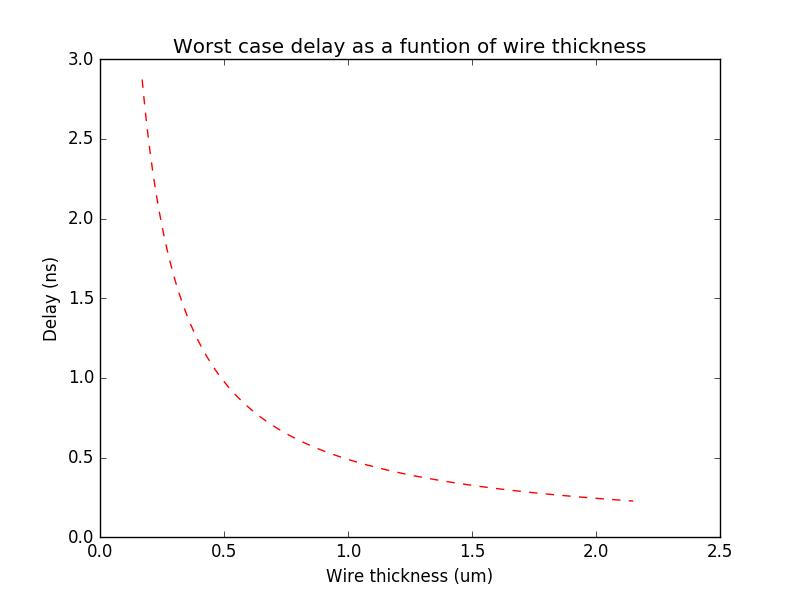
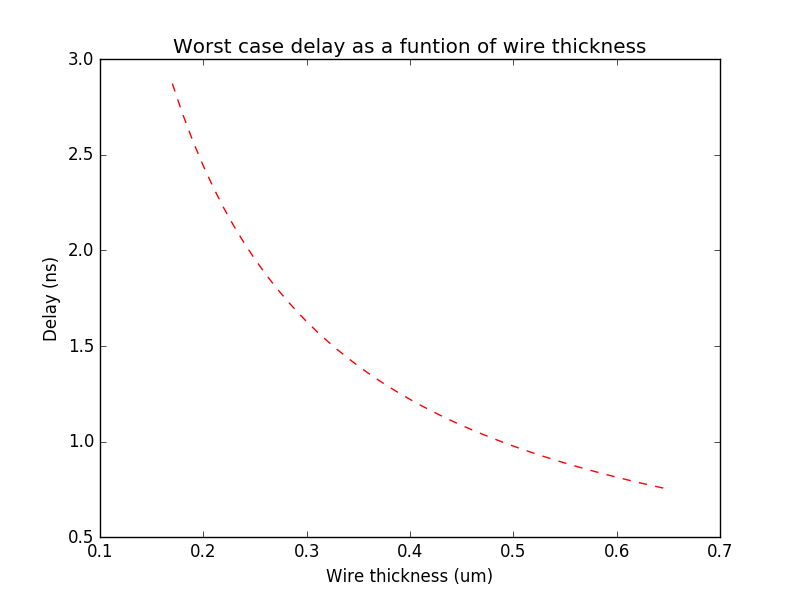
update wire delay model

diff --git a/bitlineSim.py b/bitlineSim.py
@@ -115,7 +115,7 @@ plt.show()
 
 bittest = []
 scale= []
-for i in range(1,200):
+for i in range(1,50):
 	bittest.append(Bitline(255, 1, .5, 10, .5, .16+(.01*i), .1, 0, 1))
 	scale.append((.16+.01*i))
 numbers = [x.worstCase()/1000000 for x in bittest]
